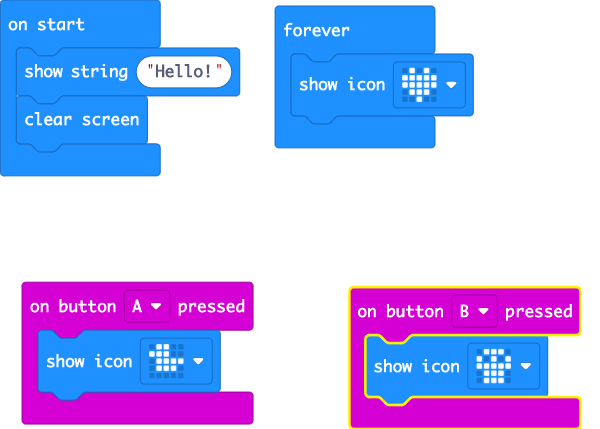
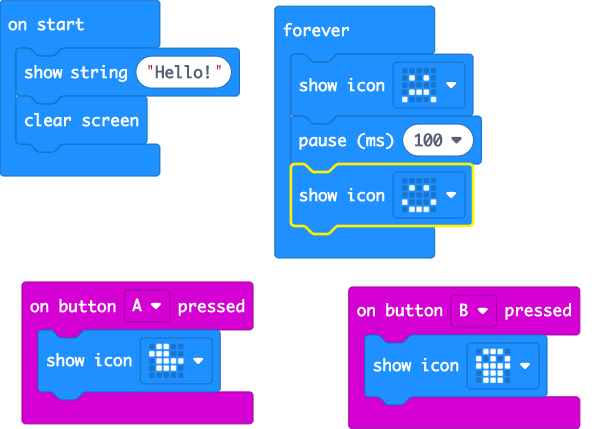
Update main.blocks, main.ts

diff --git a/main.ts b/main.ts
@@ -7,5 +7,7 @@ input.onButtonPressed(Button.B, function () {
 basic.showString("Hello!")
 basic.clearScreen()
 basic.forever(function () {
-    basic.showIcon(IconNames.Heart)
+    basic.showIcon(IconNames.Sad)
+    basic.pause(100)
+    basic.showIcon(IconNames.Happy)
 })
